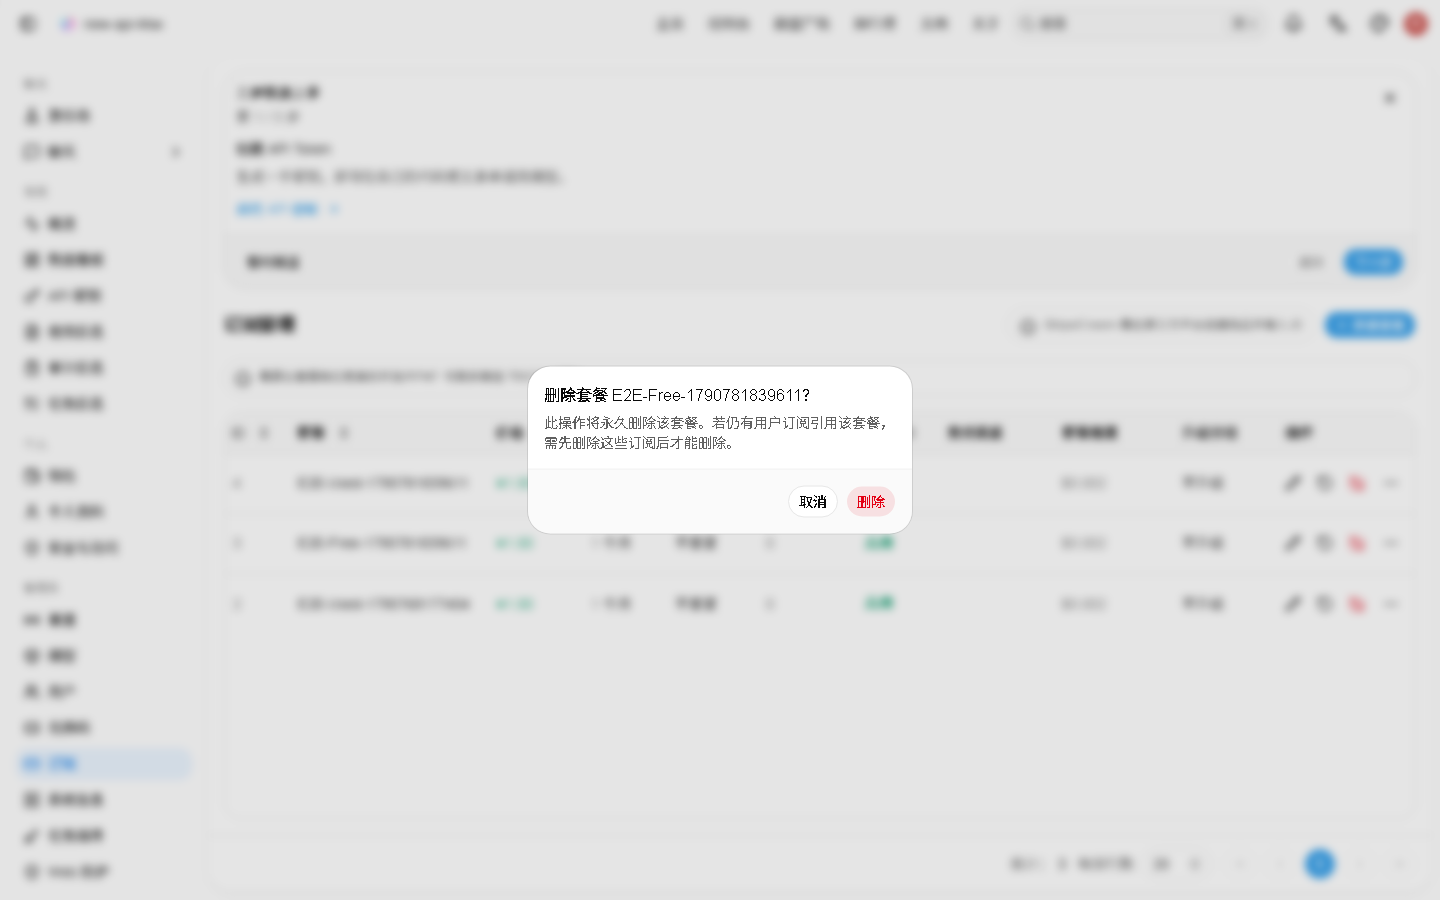
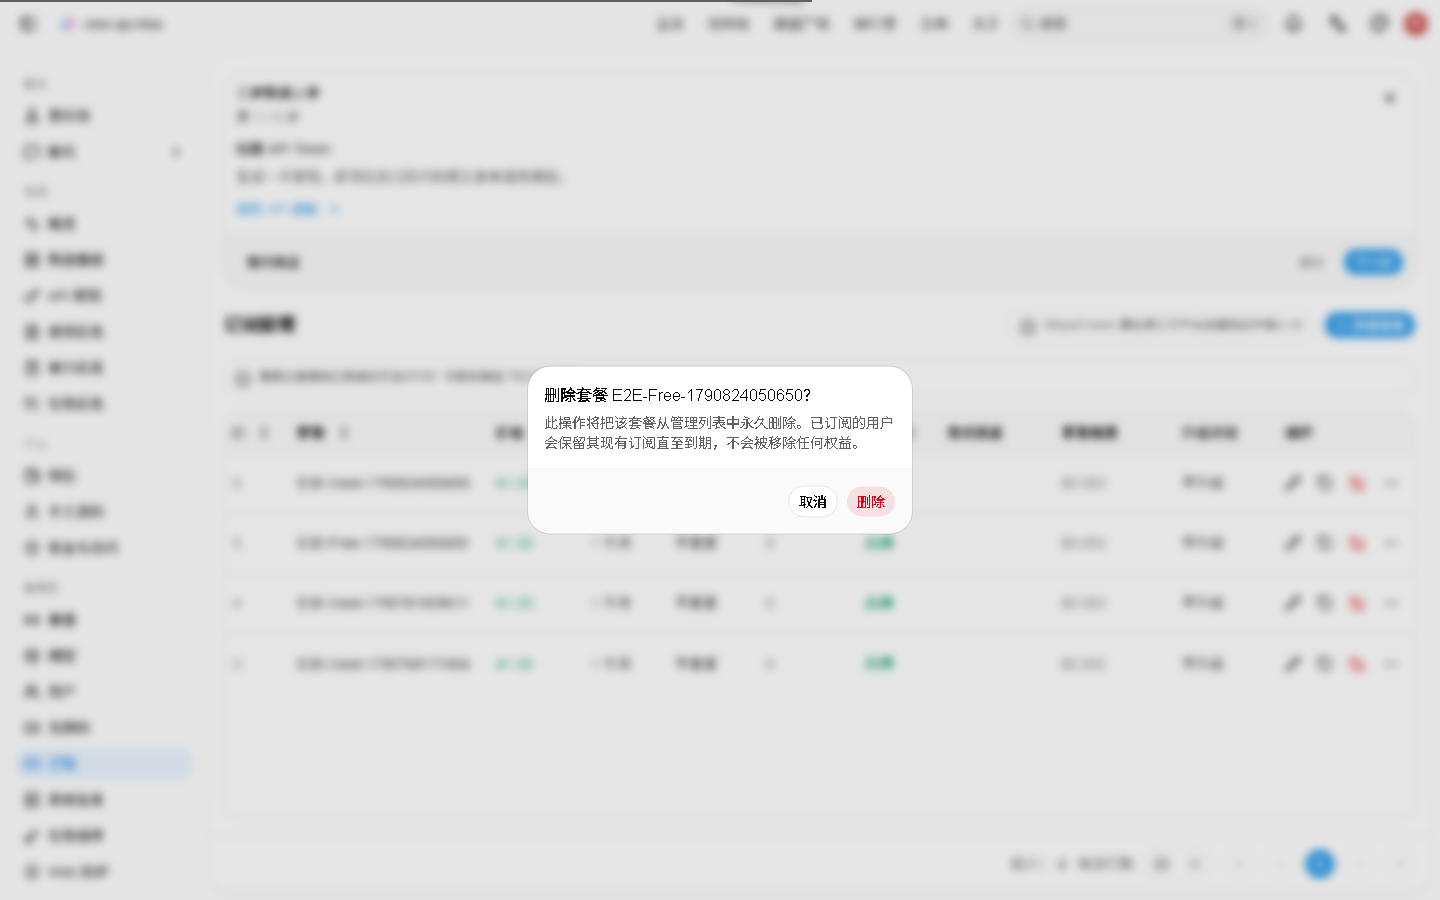
fix(subscription): 套餐有订阅记录也可删除（不剥夺权益 + 配置快照兜底）
- AdminDeleteSubscriptionPlan 不再因存在 UserSubscription 拒绝删除：
  订阅保留原 plan_id/end_time（不延长不剥夺），套餐行删除后由
  subscription_plan_grant 配置快照支撑计费/限流/访问判定
- 新增 GetPlanForSubscription：套餐行缺失时回落快照
- 接入选套餐的 3 条消费路径（订阅访问/限流解析/订阅限流中间件）
- 前端删除弹窗文案更新 + 7 语言 i18n；E2E 14/14（含被引用套餐可删 + 订阅保留）

diff --git a/web/src/features/subscriptions/components/dialogs/delete-plan-dialog.tsx b/web/src/features/subscriptions/components/dialogs/delete-plan-dialog.tsx
@@ -62,7 +62,7 @@ export function DeletePlanDialog() {
       onOpenChange={(nextOpen) => !nextOpen && setOpen(null)}
       title={t('Delete plan {{plan}}?', { plan: planLabel })}
       desc={t(
-        'This permanently removes the plan. Plans with existing user subscriptions cannot be deleted until those subscriptions are removed.'
+        'This permanently removes the plan from the management list. Users who already subscribed keep their existing subscription until it expires; nothing is removed from them.'
       )}
       confirmText={t('Delete')}
       handleConfirm={handleConfirm}

diff --git a/model/subscription.go b/model/subscription.go
@@ -1102,33 +1102,67 @@ func AdminDeleteUserSubscription(userSubscriptionId int) (string, error) {
 	return "", nil
 }
 
-// AdminDeleteSubscriptionPlan hard-deletes a subscription plan. Deletion is
-// refused while any user subscription still references the plan (regardless of
-// status) so we never orphan or silently downgrade live subscriptions; the
-// administrator must remove or invalidate those first. Historical
-// subscription_orders and redemption codes KEEP their plan_id as a durable
-// record and are intentionally not touched.
-func AdminDeleteSubscriptionPlan(planId int) error {
+// AdminDeleteSubscriptionPlan hard-deletes a subscription plan. Per product
+// decision (2026-10-01): plans referenced by history MAY be deleted, and the
+// deletion must NOT strip or extend anyone's entitlement. Semantics:
+//   - existing subscriptions KEEP their plan_id and their original end_time —
+//     they continue to bill / rate-limit / gate exactly as before (an
+//     unexpired sub is honoured until it naturally expires; nothing becomes
+//     perpetual, nothing is silently revoked);
+//   - the plan's config is snapshotted into subscription_plan_grant so
+//     GetPlanForSubscription can still resolve billing/limiter config after the
+//     plan row is gone;
+//   - the plan row is then removed so the management list can move on.
+// subscription_orders / redemption codes keep their plan_id as history.
+func AdminDeleteSubscriptionPlan(planId int) (affectedUserIds []int, err error) {
 	if planId <= 0 {
-		return errors.New("invalid planId")
+		return nil, errors.New("invalid planId")
 	}
-	return DB.Transaction(func(tx *gorm.DB) error {
-		var count int64
-		if err := tx.Model(&UserSubscription{}).Where("plan_id = ?", planId).Count(&count).Error; err != nil {
+	err = DB.Transaction(func(tx *gorm.DB) error {
+		var plan SubscriptionPlan
+		if err := tx.Where("id = ?", planId).First(&plan).Error; err != nil {
 			return err
 		}
-		if count > 0 {
-			return fmt.Errorf("该套餐下仍有 %d 条订阅记录，请先删除或作废这些订阅", count)
+		plan.NormalizeDefaults()
+
+		var usersWithSubs []int
+		if err := tx.Model(&UserSubscription{}).Select("DISTINCT user_id").
+			Where("plan_id = ?", planId).Pluck("user_id", &usersWithSubs).Error; err != nil {
+			return err
 		}
+
+		// 存套餐配置快照：删行后计费/限流/访问判定仍能工作（订阅按各自 end_time
+		// 自然结束，权益不延长也不剥夺）。
+		payload, mErr := common.Marshal(plan)
+		if mErr != nil {
+			return mErr
+		}
+		if err := tx.Where("plan_id = ?", planId).Delete(&SubscriptionPlanGrant{}).Error; err != nil {
+			return err
+		}
+		if err := tx.Create(&SubscriptionPlanGrant{
+			PlanId:      planId,
+			Title:       plan.Title,
+			Subtitle:    plan.Subtitle,
+			TotalAmount: plan.TotalAmount,
+			Payload:     string(payload),
+		}).Error; err != nil {
+			return err
+		}
+
 		res := tx.Where("id = ?", planId).Delete(&SubscriptionPlan{})
 		if res.Error != nil {
 			return res.Error
 		}
-		if res.RowsAffected == 0 {
-			return gorm.ErrRecordNotFound
+
+		// 受影响用户的缓存刷新（订阅本身的 plan_id/end_time 原样保留）。
+		affectedUserIds = usersWithSubs
+		for _, uid := range usersWithSubs {
+			InvalidateActiveSubscriptionCache(uid)
 		}
 		return nil
 	})
+	return affectedUserIds, err
 }
 
 func resetUserSubscriptionTx(tx *gorm.DB, sub *UserSubscription, plan *SubscriptionPlan, now int64, advanceResetTime bool) error {
@@ -1653,6 +1687,46 @@ type SubscriptionPlanInfo struct {
 	PlanTitle string
 }
 
+// SubscriptionPlanGrant 是 AdminDeleteSubscriptionPlan 删除套餐时，为受影响
+// 活跃订阅保存的套餐配置快照（plan_id 已删除，后续计费/限流/访问判定靠它
+// 继续工作；订阅永久化，绝不因删除套餐而剥夺权益）。一张订阅一行。
+type SubscriptionPlanGrant struct {
+	Id        int    `json:"id" gorm:"primaryKey"`
+	PlanId    int    `json:"plan_id" gorm:"index"`
+	Title     string `json:"title"`
+	Subtitle  string `json:"subtitle"`
+	TotalAmount int64 `json:"total_amount"`
+	// 完整序列化套餐配置（含 Models/UpgradeGroup/DowngradeGroup/档位/重置周期）。
+	Payload string `json:"payload" gorm:"type:text"`
+}
+
+// GetPlanForSubscription 返回订阅「实际生效」的套餐：套餐行仍在则正常读取；
+// 该订阅的套餐已被删除时，回落到删除时保存的配置快照（subscription_plan_grant），
+// 保证计费/限流/访问判定在删套餐后继续工作（订阅按原 end_time 自然结束）。
+func GetPlanForSubscription(sub *UserSubscription) (*SubscriptionPlan, error) {
+	if sub == nil {
+		return nil, errors.New("nil subscription")
+	}
+	plan, err := GetSubscriptionPlanById(sub.PlanId)
+	if err == nil && plan != nil {
+		return plan, nil
+	}
+	// 套餐行已删除：回落删除时保存的配置快照。
+	var grant SubscriptionPlanGrant
+	if gErr := DB.Where("plan_id = ?", sub.PlanId).First(&grant).Error; gErr != nil {
+		if err != nil {
+			return nil, err
+		}
+		return nil, gErr
+	}
+	var snap SubscriptionPlan
+	if uErr := common.UnmarshalJsonStr(grant.Payload, &snap); uErr != nil {
+		return nil, uErr
+	}
+	snap.NormalizeDefaults()
+	return &snap, nil
+}
+
 func GetSubscriptionPlanInfoByUserSubscriptionId(userSubscriptionId int) (*SubscriptionPlanInfo, error) {
 	if userSubscriptionId <= 0 {
 		return nil, errors.New("invalid userSubscriptionId")
@@ -1665,7 +1739,7 @@ func GetSubscriptionPlanInfoByUserSubscriptionId(userSubscriptionId int) (*Subsc
 	if err := DB.Where("id = ?", userSubscriptionId).First(&sub).Error; err != nil {
 		return nil, err
 	}
-	plan, err := getSubscriptionPlanByIdTx(nil, sub.PlanId)
+	plan, err := GetPlanForSubscription(&sub)
 	if err != nil {
 		return nil, err
 	}

diff --git a/model/subscription_plan_delete_test.go b/model/subscription_plan_delete_test.go
@@ -9,48 +9,95 @@ import (
 	"gorm.io/gorm"
 )
 
-func TestAdminDeleteSubscriptionPlanRefusedWhileSubscriptionsReferenceIt(t *testing.T) {
+// TestAdminDeleteSubscriptionPlanDeletesPlanWithActiveSubscription
+// 产品决策（2026-10-01）：套餐被活跃订阅引用时**仍可删除**；订阅保留原
+// end_time（不延长不剥夺），后续计费/限流/访问判定由配置快照兜底。
+func TestAdminDeleteSubscriptionPlanDeletesPlanWithActiveSubscription(t *testing.T) {
 	truncateTables(t)
 
 	plan := &SubscriptionPlan{
-		Id:            9701,
-		Title:         "Kept",
-		PriceAmount:   10,
-		DurationUnit:  SubscriptionDurationMonth,
-		DurationValue: 1,
-		TotalAmount:   1000,
+		Id: 9701, Title: "Pro", PriceAmount: 10, DurationUnit: SubscriptionDurationMonth, DurationValue: 1,
+		TotalAmount: 1000, UpgradeGroup: "vip", ConcurrencyLimit: 3, RpmLimit: 150,
 	}
 	require.NoError(t, DB.Create(plan).Error)
 	now := GetDBTimestamp()
+	originalEnd := now + 30*24*3600
 	require.NoError(t, DB.Create(&UserSubscription{
 		Id: 9702, UserId: 501, PlanId: plan.Id, AmountTotal: 1000,
-		StartTime: now, EndTime: now + 3600, Status: "cancelled",
+		StartTime: now - 3600, EndTime: originalEnd, Status: "active",
+		UpgradeGroup: "vip", PrevUserGroup: "default",
 	}).Error)
 
-	err := AdminDeleteSubscriptionPlan(plan.Id)
-	require.Error(t, err)
-	// Even a cancelled subscription blocks deletion: no silent downgrade, no orphan.
-	assert.Contains(t, err.Error(), "订阅记录")
+	affected, err := AdminDeleteSubscriptionPlan(plan.Id)
+	require.NoError(t, err, "有订阅的套餐必须能删除（永远不能因历史记录被卡）")
+	assert.Equal(t, []int{501}, affected)
+
+	// 套餐行已删除。
+	var count int64
+	require.NoError(t, DB.Model(&SubscriptionPlan{}).Where("id = ?", plan.Id).Count(&count).Error)
+	assert.Zero(t, count)
+
+	// 订阅保留原样：end_time 不变（既不延长也不剥夺），status 不变。
+	var sub UserSubscription
+	require.NoError(t, DB.Where("id = ?", 9702).First(&sub).Error)
+	assert.Equal(t, originalEnd, sub.EndTime, "订阅必须按原到期时间自然结束（不延长不剥夺）")
+	assert.Equal(t, "active", sub.Status)
+
+	// 计费/访问判定仍能拿到快照配置（plan 行已删 → 回落 subscription_plan_grant）。
+	plan2, err := GetPlanForSubscription(&sub)
+	require.NoError(t, err)
+	require.NotNil(t, plan2)
+	assert.Equal(t, "Pro", plan2.Title, "快照必须保留套餐标题，删套餐后持续可用")
+	assert.Equal(t, int64(1000), plan2.TotalAmount)
+	assert.Equal(t, 150, plan2.RpmLimit)
+
+	info, infoErr := GetSubscriptionPlanInfoByUserSubscriptionId(9702)
+	require.NoError(t, infoErr)
+	require.NotNil(t, info)
+	assert.Equal(t, "Pro", info.PlanTitle)
+}
+
+// TestAdminDeleteSubscriptionPlanDeletesPlanWithHistoricalRecordOnly
+// 套餐仅剩历史（过期/作废）订阅时删除：直接删套餐，订阅原样保留（不会变永久）。
+func TestAdminDeleteSubscriptionPlanDeletesPlanWithHistoricalRecordOnly(t *testing.T) {
+	truncateTables(t)
+
+	plan := &SubscriptionPlan{
+		Id: 9703, Title: "Old", PriceAmount: 5, DurationUnit: SubscriptionDurationMonth, DurationValue: 1, TotalAmount: 500,
+	}
+	require.NoError(t, DB.Create(plan).Error)
+	now := GetDBTimestamp()
+	expiredEnd := now - 3600
+	require.NoError(t, DB.Create(&UserSubscription{
+		Id: 9704, UserId: 502, PlanId: plan.Id, AmountTotal: 500,
+		StartTime: now - 7200, EndTime: expiredEnd, Status: "expired",
+	}).Error)
+
+	affected, err := AdminDeleteSubscriptionPlan(plan.Id)
+	require.NoError(t, err)
+	assert.Equal(t, []int{502}, affected)
 
 	var count int64
 	require.NoError(t, DB.Model(&SubscriptionPlan{}).Where("id = ?", plan.Id).Count(&count).Error)
-	assert.Equal(t, int64(1), count)
+	assert.Zero(t, count)
+
+	// 历史订阅的 end_time 不被改动。
+	var sub UserSubscription
+	require.NoError(t, DB.Where("id = ?", 9704).First(&sub).Error)
+	assert.Equal(t, expiredEnd, sub.EndTime)
 }
 
 func TestAdminDeleteSubscriptionPlanRemovesUnreferencedPlan(t *testing.T) {
 	truncateTables(t)
 
 	plan := &SubscriptionPlan{
-		Id:            9801,
-		Title:         "Disposable",
-		PriceAmount:   5,
-		DurationUnit:  SubscriptionDurationDay,
-		DurationValue: 1,
-		TotalAmount:   500,
+		Id: 9801, Title: "Disposable", PriceAmount: 5, DurationUnit: SubscriptionDurationDay, DurationValue: 1, TotalAmount: 500,
 	}
 	require.NoError(t, DB.Create(plan).Error)
 
-	require.NoError(t, AdminDeleteSubscriptionPlan(plan.Id))
+	affected, err := AdminDeleteSubscriptionPlan(plan.Id)
+	require.NoError(t, err)
+	assert.Empty(t, affected)
 
 	var count int64
 	require.NoError(t, DB.Model(&SubscriptionPlan{}).Where("id = ?", plan.Id).Count(&count).Error)
@@ -68,12 +115,14 @@ func TestAdminDeleteSubscriptionPlanRemovesUnreferencedPlan(t *testing.T) {
 func TestAdminDeleteSubscriptionPlanMissingPlanReturnsNotFound(t *testing.T) {
 	truncateTables(t)
 
-	err := AdminDeleteSubscriptionPlan(999999)
+	_, err := AdminDeleteSubscriptionPlan(999999)
 	require.Error(t, err)
 	assert.True(t, strings.Contains(err.Error(), "not found") || err == gorm.ErrRecordNotFound)
 }
 
 func TestAdminDeleteSubscriptionPlanRejectsInvalidId(t *testing.T) {
-	require.Error(t, AdminDeleteSubscriptionPlan(0))
-	require.Error(t, AdminDeleteSubscriptionPlan(-3))
+	_, err := AdminDeleteSubscriptionPlan(0)
+	require.Error(t, err)
+	_, err = AdminDeleteSubscriptionPlan(-3)
+	require.Error(t, err)
 }

diff --git a/controller/subscription.go b/controller/subscription.go
@@ -371,9 +371,10 @@ func AdminUpdateSubscriptionPlanStatus(c *gin.Context) {
 	common.ApiSuccess(c, nil)
 }
 
-// AdminDeleteSubscriptionPlan 删除一个订阅套餐。当仍有用户订阅引用该套餐时
-// 拒绝删除（需先删除/作废这些订阅），避免静默降级或产生悬空引用。历史订单与
-// 兑换码保留各自 plan_id 作为存档，不受影响。
+// AdminDeleteSubscriptionPlan 删除一个订阅套餐。
+// 产品语义（2026-10-01）：套餐被用户订阅引用时**仍允许删除**，且绝不静默
+// 剥夺订阅——受影响用户的活跃订阅转为永久（end_time=-1），套餐行删除；
+// 订阅订单/兑换码保留 plan_id 作为历史存证。
 func AdminDeleteSubscriptionPlan(c *gin.Context) {
 	if !requirePaymentCompliance(c) {
 		return
@@ -383,7 +384,8 @@ func AdminDeleteSubscriptionPlan(c *gin.Context) {
 		common.ApiErrorMsg(c, "无效的ID")
 		return
 	}
-	if err := model.AdminDeleteSubscriptionPlan(id); err != nil {
+	affectedUserIds, err := model.AdminDeleteSubscriptionPlan(id)
+	if err != nil {
 		if errors.Is(err, gorm.ErrRecordNotFound) {
 			common.ApiErrorMsg(c, "套餐不存在")
 			return
@@ -392,7 +394,10 @@ func AdminDeleteSubscriptionPlan(c *gin.Context) {
 		return
 	}
 	model.InvalidateSubscriptionPlanCache(id)
-	common.ApiSuccess(c, nil)
+	common.ApiSuccess(c, gin.H{
+		"deleted":           true,
+		"affected_user_ids": affectedUserIds,
+	})
 }
 
 type AdminBindSubscriptionRequest struct {

diff --git a/model/main.go b/model/main.go
@@ -365,6 +365,7 @@ func migrateDB() error {
 		&SubscriptionOrder{},
 		&UserSubscription{},
 		&SubscriptionPreConsumeRecord{},
+		&SubscriptionPlanGrant{},
 		&CustomOAuthProvider{},
 		&UserOAuthBinding{},
 		&PerfMetric{},
@@ -410,6 +411,7 @@ func BackupTables() []any {
 		&TaskEvent{}, &TaskPlugin{}, &Model{}, &Vendor{}, &PrefillGroup{},
 		&Setup{}, &TwoFA{}, &TwoFABackupCode{}, &Checkin{}, &SubscriptionPlan{},
 		&SubscriptionOrder{}, &UserSubscription{}, &SubscriptionPreConsumeRecord{},
+		&SubscriptionPlanGrant{},
 		&CustomOAuthProvider{}, &UserOAuthBinding{}, &PerfMetric{},
 		&SystemInstance{}, &SystemTask{}, &SystemTaskLock{}, &CasbinRule{},
 		&AuthzRole{}, &BannedIP{}, &WebRequestLog{}, &EventDelivery{},

diff --git a/model/db_conformance_test.go b/model/db_conformance_test.go
@@ -119,7 +119,7 @@ func conformanceModels() []any {
 		&QuotaData{}, &Task{}, &TaskEvent{}, &TaskPlugin{}, &Model{},
 		&Vendor{}, &PrefillGroup{}, &Setup{}, &TwoFA{}, &TwoFABackupCode{},
 		&Checkin{}, &SubscriptionOrder{}, &UserSubscription{},
-		&SubscriptionPreConsumeRecord{}, &CustomOAuthProvider{},
+		&SubscriptionPreConsumeRecord{}, &SubscriptionPlanGrant{}, &CustomOAuthProvider{},
 		&UserOAuthBinding{}, &PerfMetric{}, &SystemInstance{},
 		&SystemTask{}, &SystemTaskLock{}, &CasbinRule{}, &AuthzRole{},
 		&BannedIP{}, &WebRequestLog{}, &SubscriptionPlan{}, &EventDelivery{},

diff --git a/service/rate_limit_resolve.go b/service/rate_limit_resolve.go
@@ -16,7 +16,7 @@ func ResolveUserRateLimit(userId int, group string) (concurrency, rpm int, sourc
 		if subs, err := model.GetAllActiveUserSubscriptions(userId); err == nil && len(subs) > 0 {
 			sub := subs[0].Subscription
 			if sub != nil {
-				if plan, err := model.GetSubscriptionPlanById(sub.PlanId); err == nil && plan != nil {
+				if plan, err := model.GetPlanForSubscription(sub); err == nil && plan != nil {
 					c, r := sub.EffectiveTier(plan.ConcurrencyLimit, plan.RpmLimit)
 					if c > 0 || r > 0 {
 						return c, r, "subscription"

diff --git a/controller/main_test.go b/controller/main_test.go
@@ -52,6 +52,7 @@ func TestMain(m *testing.M) {
 		&model.PrefillGroup{}, &model.Setup{}, &model.TwoFA{}, &model.TwoFABackupCode{},
 		&model.Checkin{}, &model.SubscriptionPlan{}, &model.SubscriptionOrder{},
 		&model.UserSubscription{}, &model.SubscriptionPreConsumeRecord{},
+		&model.SubscriptionPlanGrant{},
 		&model.CustomOAuthProvider{}, &model.UserOAuthBinding{}, &model.PerfMetric{},
 		&model.SystemInstance{}, &model.SystemTask{}, &model.SystemTaskLock{},
 		&model.CasbinRule{}, &model.AuthzRole{}, &model.BannedIP{},

diff --git a/service/subscription_access.go b/service/subscription_access.go
@@ -83,7 +83,7 @@ func CheckSubscriptionModelAccess(userId int, modelName string) (bool, string, e
 	if sub == nil {
 		return true, "", nil
 	}
-	plan, err := model.GetSubscriptionPlanById(sub.PlanId)
+	plan, err := model.GetPlanForSubscription(sub)
 	if err != nil || plan == nil {
 		return true, "", nil
 	}

diff --git a/middleware/subscription-rate-limit.go b/middleware/subscription-rate-limit.go
@@ -98,7 +98,7 @@ func resolveFromSubscriptionSummaries(subs []model.SubscriptionSummary) (concurr
 	if sub == nil {
 		return 0, 0, false
 	}
-	plan, err := model.GetSubscriptionPlanById(sub.PlanId)
+	plan, err := model.GetPlanForSubscription(sub)
 	if err != nil || plan == nil {
 		return 0, 0, false
 	}

diff --git a/model/task_cas_test.go b/model/task_cas_test.go
@@ -54,6 +54,7 @@ func TestMain(m *testing.M) {
 		&SubscriptionPlan{},
 		&SubscriptionOrder{},
 		&UserSubscription{},
+		&SubscriptionPlanGrant{},
 		&UserOAuthBinding{},
 		&PerfMetric{},
 		&SystemInstance{},
